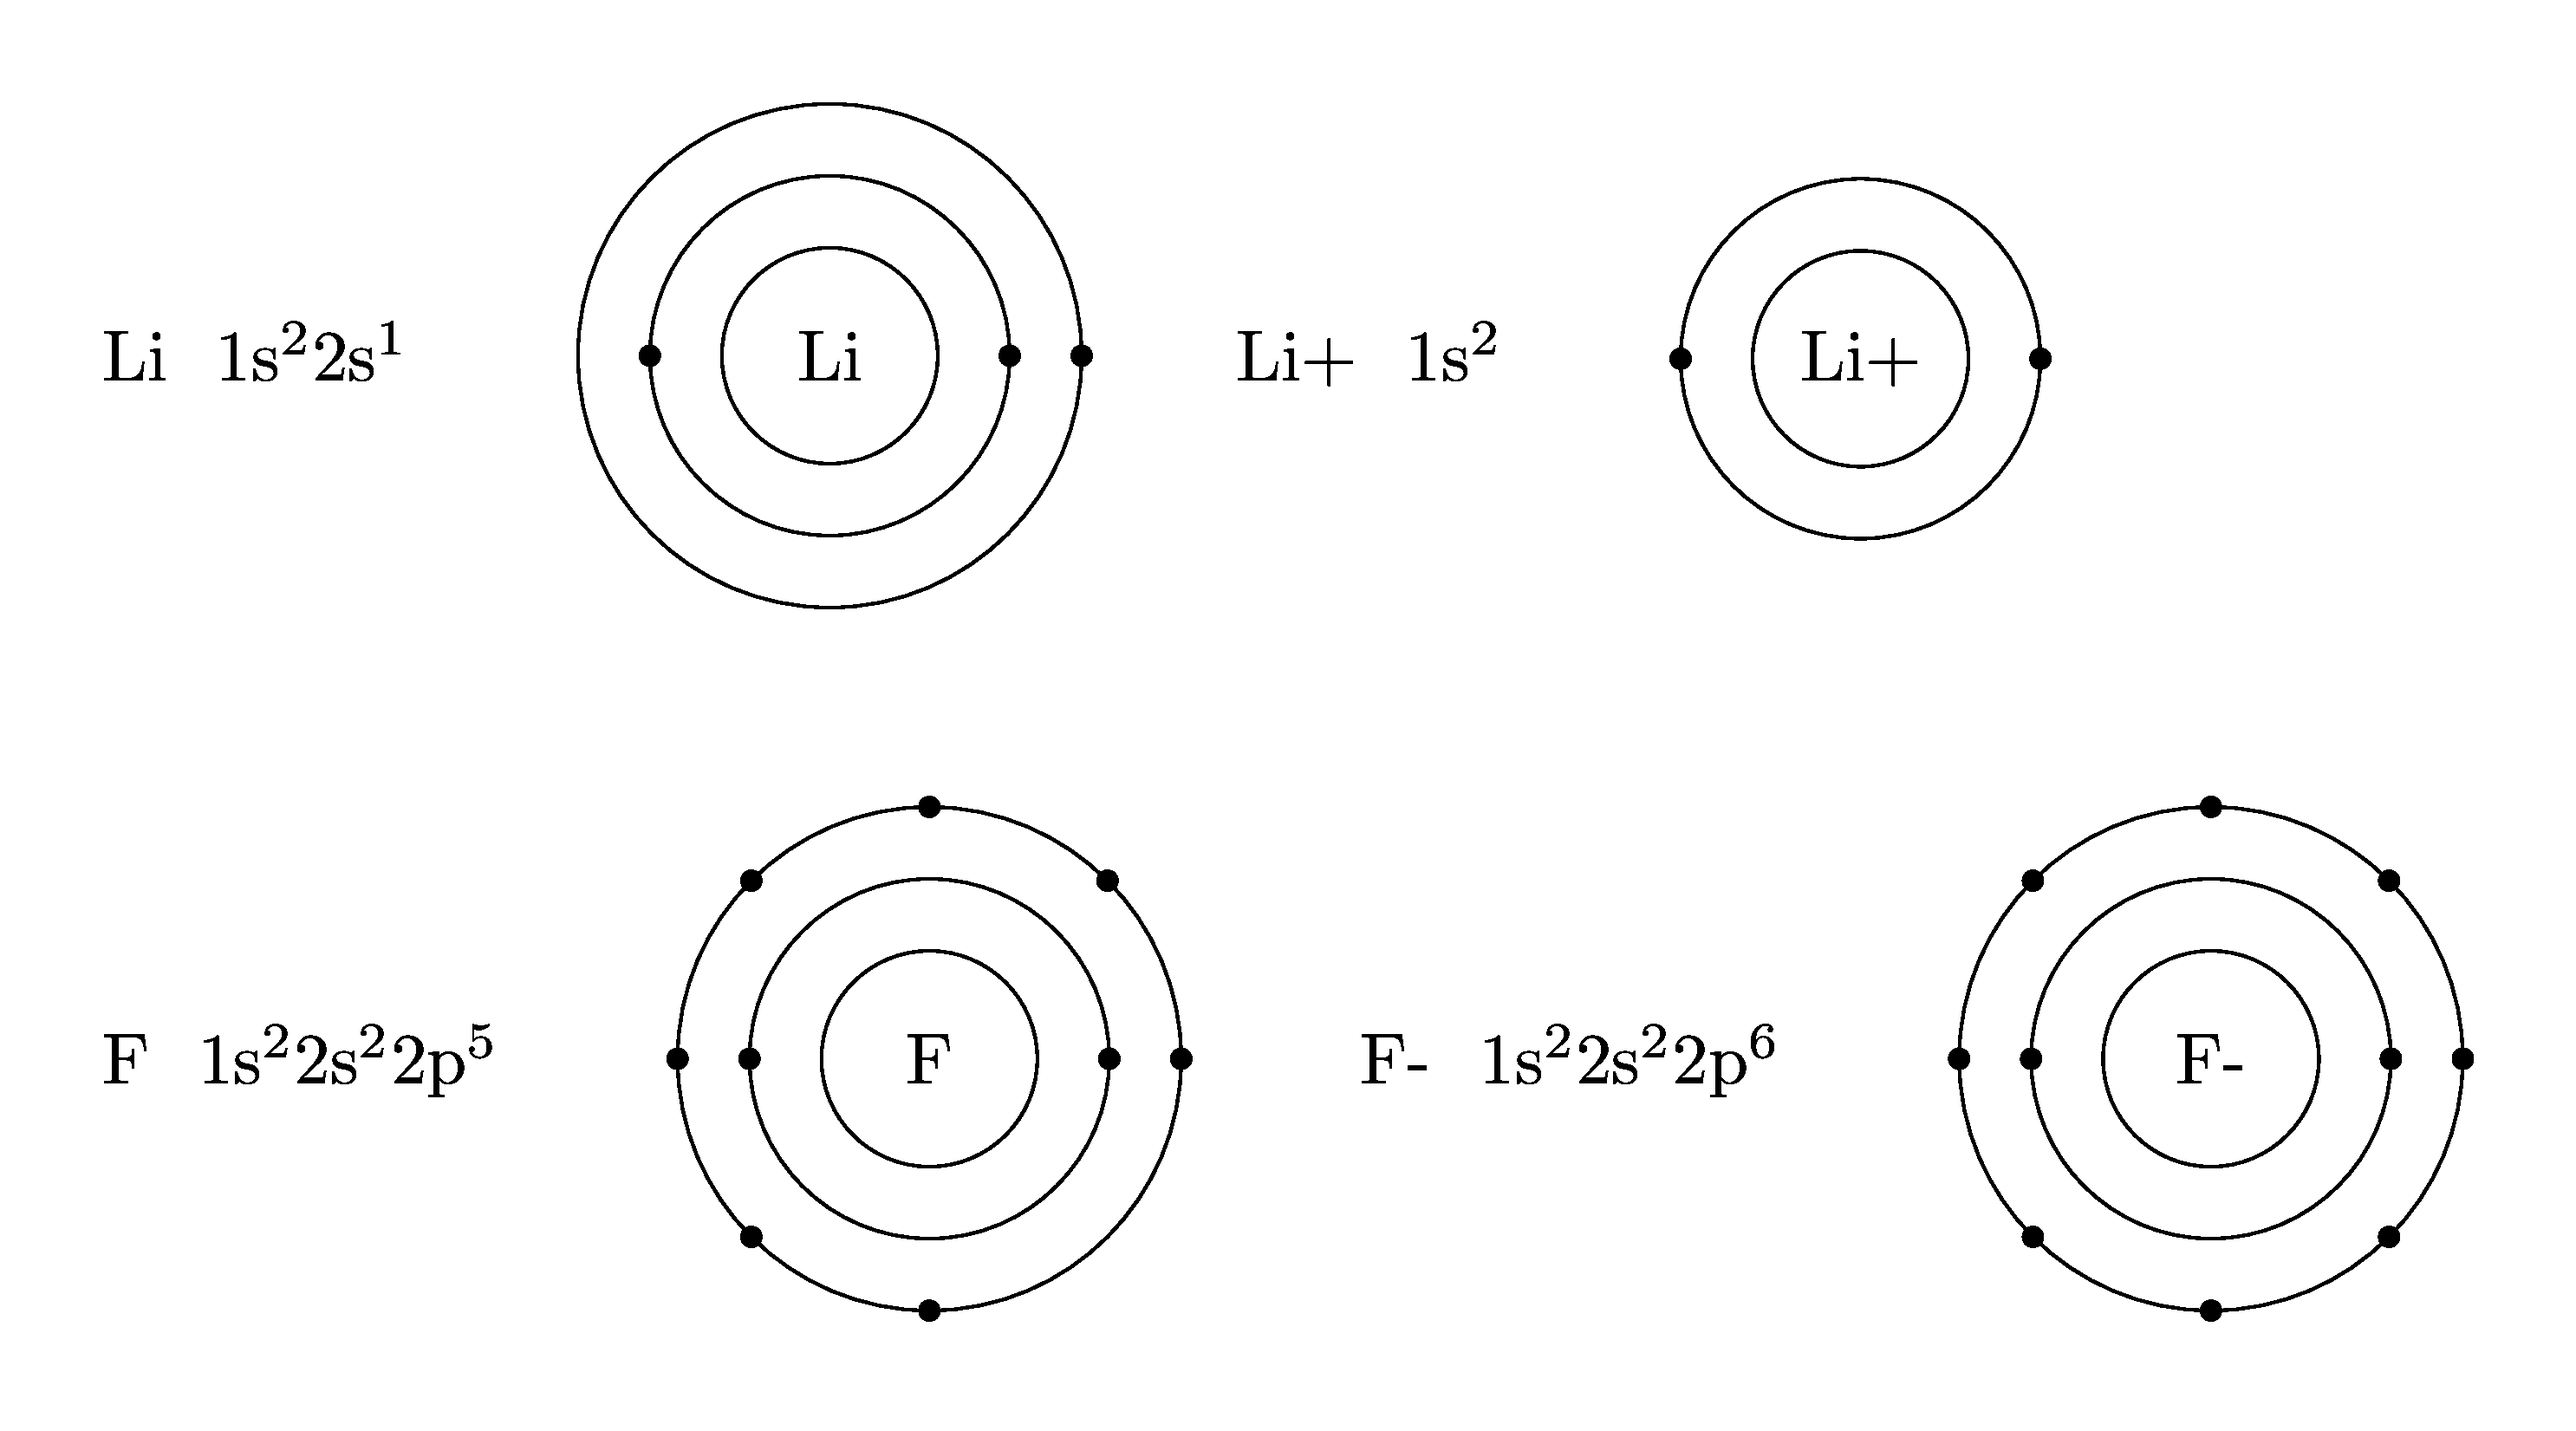
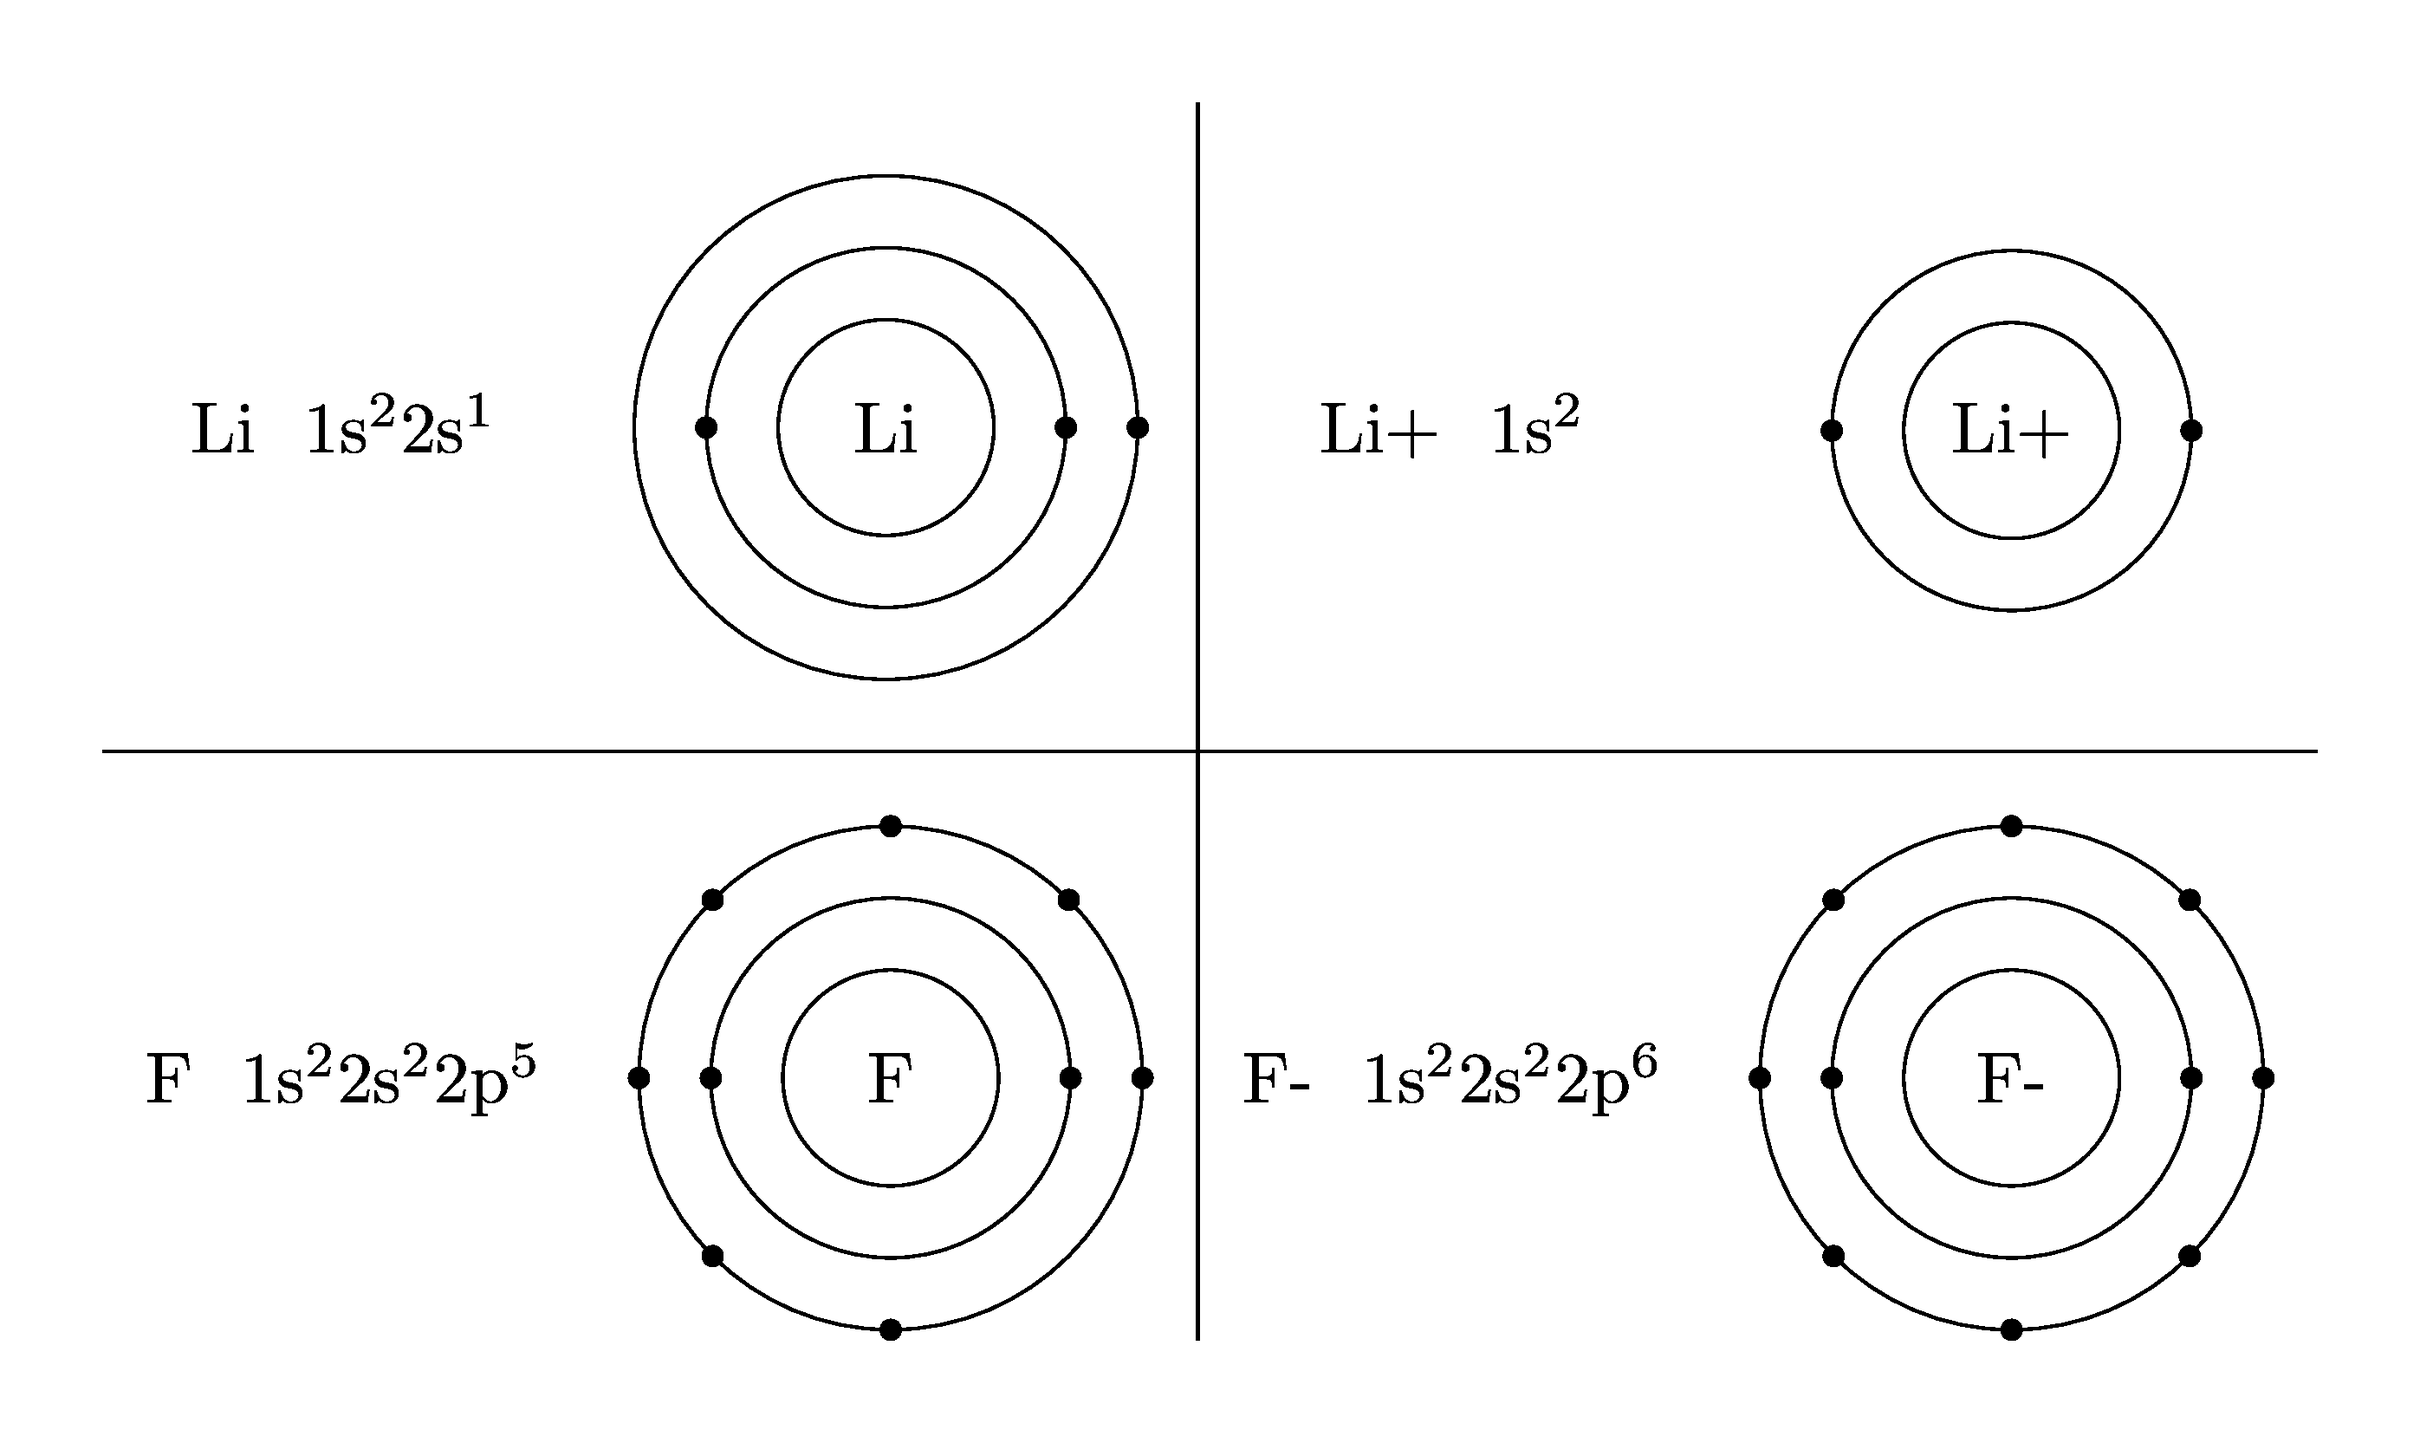
bohr

diff --git a/docs/pdf_to_png_modules/magick_pdf_to_png.py b/docs/pdf_to_png_modules/magick_pdf_to_png.py
@@ -19,8 +19,8 @@ def convert_pdf_to_png(pdf_path, png_path):
         '-quality','100' makes the best quality png
         '-alpha','off' is used here so all transparency is removed
     """
-    # subprocess.run(['magick', 'convert', '-quiet', '-background', 'white', '-alpha', 'off', '-quality', '100', '-density', '600', pdf_path, png_path])
-    subprocess.run(['magick', 'convert', '-quiet', '-background', 'white', '-alpha', 'off', '-quality', '100', '-density', '600', '-colorspace', 'Gray', pdf_path, png_path]) 
+    subprocess.run(['magick', 'convert', '-quiet', '-background', 'white', '-alpha', 'off', '-quality', '100', '-density', '600', pdf_path, png_path])
+    # subprocess.run(['magick', 'convert', '-quiet', '-background', 'white', '-alpha', 'off', '-quality', '100', '-density', '600', '-colorspace', 'Gray', pdf_path, png_path]) 
 
 
 def pdf_to_png(pdf_file_path):

diff --git a/docs/pdf_to_png_modules/latex_pdf_to_png.py b/docs/pdf_to_png_modules/latex_pdf_to_png.py
@@ -12,6 +12,6 @@ png_path = f'{tex_filename}.png'
 # this also works:
 # subprocess.run(f'magick convert -quiet -background white -alpha off -quality 100 -density 600 {tex_filename}.pdf {tex_filename}.png')
 
-# subprocess.run(['magick', 'convert','-quiet', '-background', 'white', '-alpha', 'off', '-quality', '100', '-density', '2400', pdf_path, png_path])
+subprocess.run(['magick', 'convert','-quiet', '-background', 'white', '-alpha', 'off', '-quality', '100', '-density', '2400', pdf_path, png_path])
 
-subprocess.run(['magick', 'convert', '-quiet', '-background', 'white', '-alpha', 'off', '-quality', '100', '-density', '600', '-colorspace', 'Gray', pdf_path, png_path]) 
+# subprocess.run(['magick', 'convert', '-quiet', '-background', 'white', '-alpha', 'off', '-quality', '100', '-density', '600', '-colorspace', 'Gray', pdf_path, png_path]) 

diff --git a/docs/latex_science/chemistry/files/bohr_orbitals.tex b/docs/latex_science/chemistry/files/bohr_orbitals.tex
@@ -1,9 +1,13 @@
 \documentclass[varwidth,border = 5mm]{standalone}
 \usepackage{bohr}
+\usepackage{array}
 \begin{document}
+\renewcommand{\arraystretch}{1.5} % Set the row height to 1.5 times the default value
+\setlength{\extrarowheight}{24pt} % Set the row padding to 24 points
 \setbohr{distribution-method=quantum,insert-missing,nucleus-options-set={black},shell-options-set={black},electron-options-set={black}}
 \setbohr{nucleus-radius=1.5em}
-{Li } \elconf{3} \qquad \bohr{3}{Li}\qquad {Li+ } \elconf{2} \qquad \bohr{2}{Li+}\\
-\vspace{24pt}\\
-{F } \elconf{9} \qquad \bohr{9}{F} \qquad {F- } \elconf{10} \qquad \bohr{10}{F-}\\
+\begin{tabular}{cc|cc}
+{Li } \elconf{3} & \bohr{3}{Li} & {Li+ } \elconf{2} & \bohr{2}{Li+} \\[36pt] \hline
+{F } \elconf{9} & \bohr{9}{F} & {F- } \elconf{10} & \bohr{10}{F^{-}} \\
+\end{tabular}
 \end{document}
